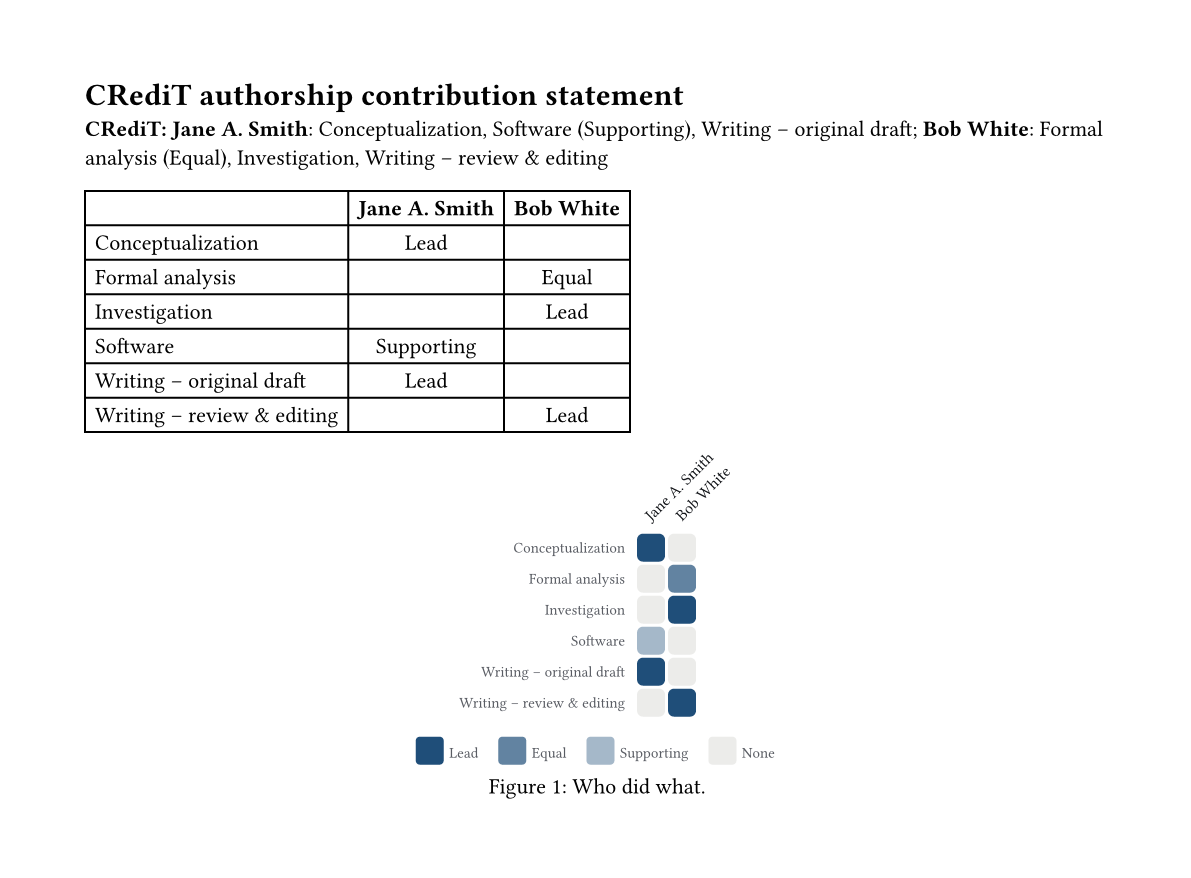
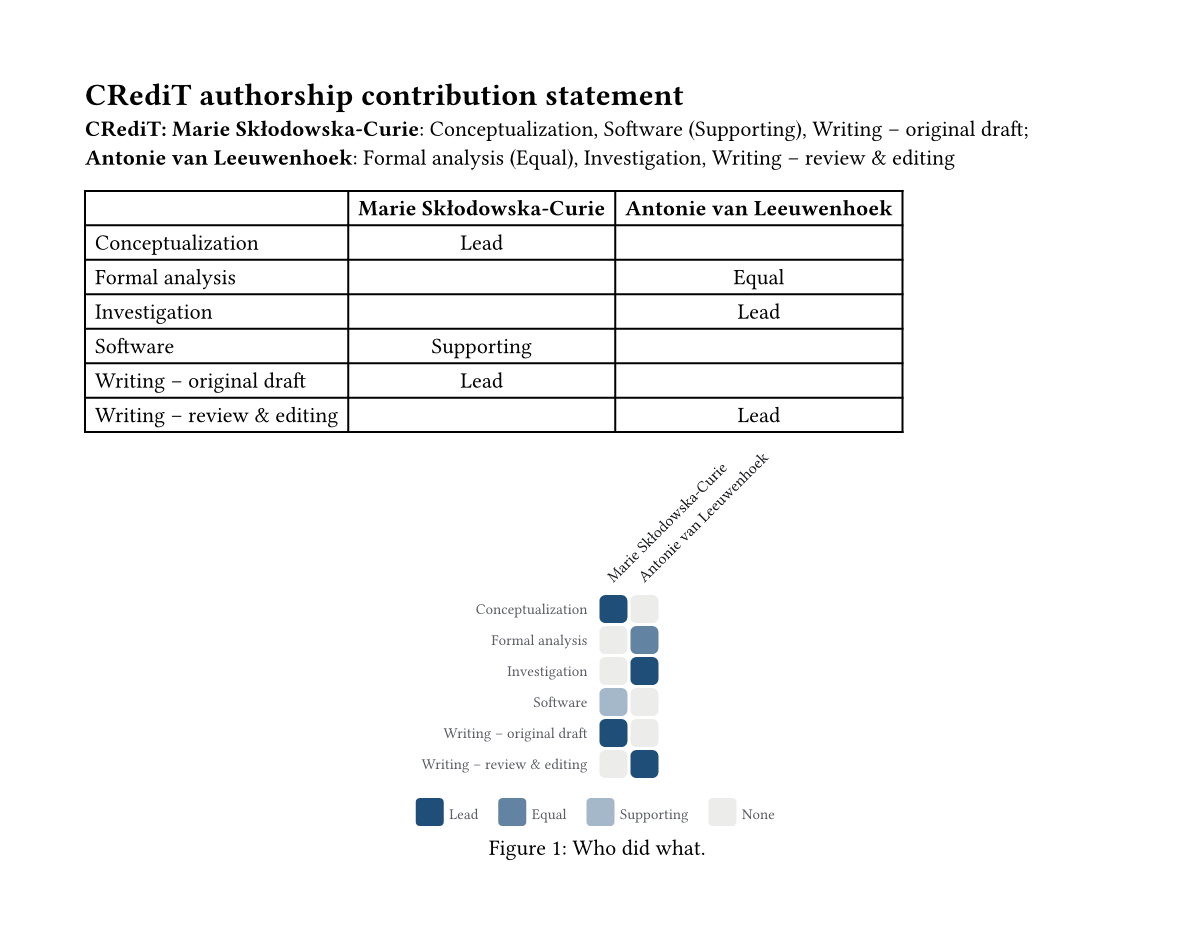
build(typst): get the package ready for Typst Universe
- typst.toml declares MIT AND CC-BY-4.0, since translations.json comes from
  the CC BY 4.0 credit-translation project, and the README says which is which
- the README leads with the @preview import and keeps copying the folder as
  the fallback
- the examples use the repo's usual cast, with basic.png rendered again

Changed region(s): [[0.0621, 0.0923, 0.932, 0.492], [0.3417, 0.492, 0.6524, 0.9226], [0.6213, 0.8303, 0.6524, 0.8918]]

diff --git a/integrations/typst/credit-matrix.test.ts b/integrations/typst/credit-matrix.test.ts
@@ -96,8 +96,12 @@ describe.skipIf(!hasTypst && !process.env.CI)("Typst package, compiled", () => {
       return a;
     };
     const authors = [
-      author("Jane A. Smith", { Conceptualization: 100, Software: 33, "Writing – original draft": 100 }),
-      author("Bob White", { Investigation: 100, "Formal analysis": 66, "Writing – review & editing": 100 }),
+      author("Marie Skłodowska-Curie", { Conceptualization: 100, Software: 33, "Writing – original draft": 100 }),
+      author("Antonie van Leeuwenhoek", {
+        Investigation: 100,
+        "Formal analysis": 66,
+        "Writing – review & editing": 100,
+      }),
     ];
     const run = typst("eval", "--root", ".", "--in", "examples/basic.typ", "query(<credit-statement>).first().value");
     expect(run.status, run.stderr).toBe(0);

diff --git a/integrations/typst/README.md b/integrations/typst/README.md
@@ -7,22 +7,16 @@ the app, export them as JSON and print them in your paper.
 
 ## Install
 
-Once the package is on Typst Universe:
-
 ```typ
 #import "@preview/credit-matrix:0.1.0": *
 ```
 
-Until then, copy this folder (`lib.typ`, `translations.json`, `typst.toml`) into your project and
-import `lib.typ`:
+To work from the repository instead, copy this folder (`lib.typ`, `translations.json`,
+`typst.toml`) into your project and import `lib.typ`:
 
 ```typ
 #import "credit-matrix/lib.typ": *
 ```
-
-Or install it as a local package by copying the folder to
-`{data-dir}/typst/packages/local/credit-matrix/0.1.0/` and importing
-`@local/credit-matrix:0.1.0` ([where `{data-dir}` is](https://github.com/typst/packages#local-packages)).
 
 Needs Typst 0.14 or later.
 
@@ -30,8 +24,8 @@ Needs Typst 0.14 or later.
 
 ```typ
 #let team = (
-  (name: "Jane A. Smith", roles: (conceptualization: "lead", software: "supporting", writing-original-draft: true)),
-  (name: "Bob White", roles: (investigation: true, formal-analysis: "equal", writing-review-editing: true)),
+  (name: "Marie Skłodowska-Curie", roles: (conceptualization: "lead", software: "supporting", writing-original-draft: true)),
+  (name: "Antonie van Leeuwenhoek", roles: (investigation: true, formal-analysis: "equal", writing-review-editing: true)),
 )
 
 #credit-statement(team, levels: true)
@@ -39,8 +33,8 @@ Needs Typst 0.14 or later.
 
 renders as:
 
-> **CRediT: Jane A. Smith**: Conceptualization, Software (Supporting), Writing – original draft;
-> **Bob White**: Formal analysis (Equal), Investigation, Writing – review & editing
+> **CRediT: Marie Skłodowska-Curie**: Conceptualization, Software (Supporting), Writing – original draft;
+> **Antonie van Leeuwenhoek**: Formal analysis (Equal), Investigation, Writing – review & editing
 
 ![The statement, table and heatmap of examples/basic.typ](examples/basic.png)
 
@@ -72,7 +66,7 @@ You can also pass the app's own export: Export data, JSON, then
 
 - `credit-statement(contributors, format: "by-author", levels: false, lang: auto)`: the statement,
   one paragraph for the authors, one for the acknowledged contributors and one per note. `format`
-  is `"by-author"` (Jane: Software, Validation) or `"by-role"` (Software: Jane, Bob). With
+  is `"by-author"` (Marie: Software, Validation) or `"by-role"` (Software: Marie, Antonie). With
   `levels: true`, Equal and Supporting are shown after each role or name; Lead is not.
 - `credit-statement-text(..)`: the same statement as a plain string, with the same arguments. Call
   it inside `context` when `lang` is `auto`.
@@ -105,3 +99,10 @@ tagged PDF, put the table in a figure with a caption, as Typst 0.15 cannot mark 
 ```typ
 #figure(credit-table(team), caption: [Contributions by role.])
 ```
+
+## License
+
+The code is [MIT](LICENSE). The role names in `translations.json` come from the community
+[credit-translation](https://github.com/contributorshipcollaboration/credit-translation) project
+under [CC BY 4.0](https://creativecommons.org/licenses/by/4.0/); the translators are listed in
+[CREDITS.md](https://github.com/simonvanlierde/credit-matrix/blob/main/src/core/credit-i18n/translations/CREDITS.md).

diff --git a/CHANGELOG.md b/CHANGELOG.md
@@ -17,6 +17,8 @@ adheres to [Semantic Versioning](https://semver.org/spec/v2.0.0.html).
 
 - The [CRediT census](https://credit.duinlab.nl/census) link shows in the header at every width,
   and the Published practice tab links to it.
+- The [Typst package](https://github.com/simonvanlierde/credit-matrix/tree/main/integrations/typst) declares
+  its role translations as CC BY 4.0 next to the MIT code, ready for Typst Universe.
 
 ## [0.10.0] - 2026-11-01
 
